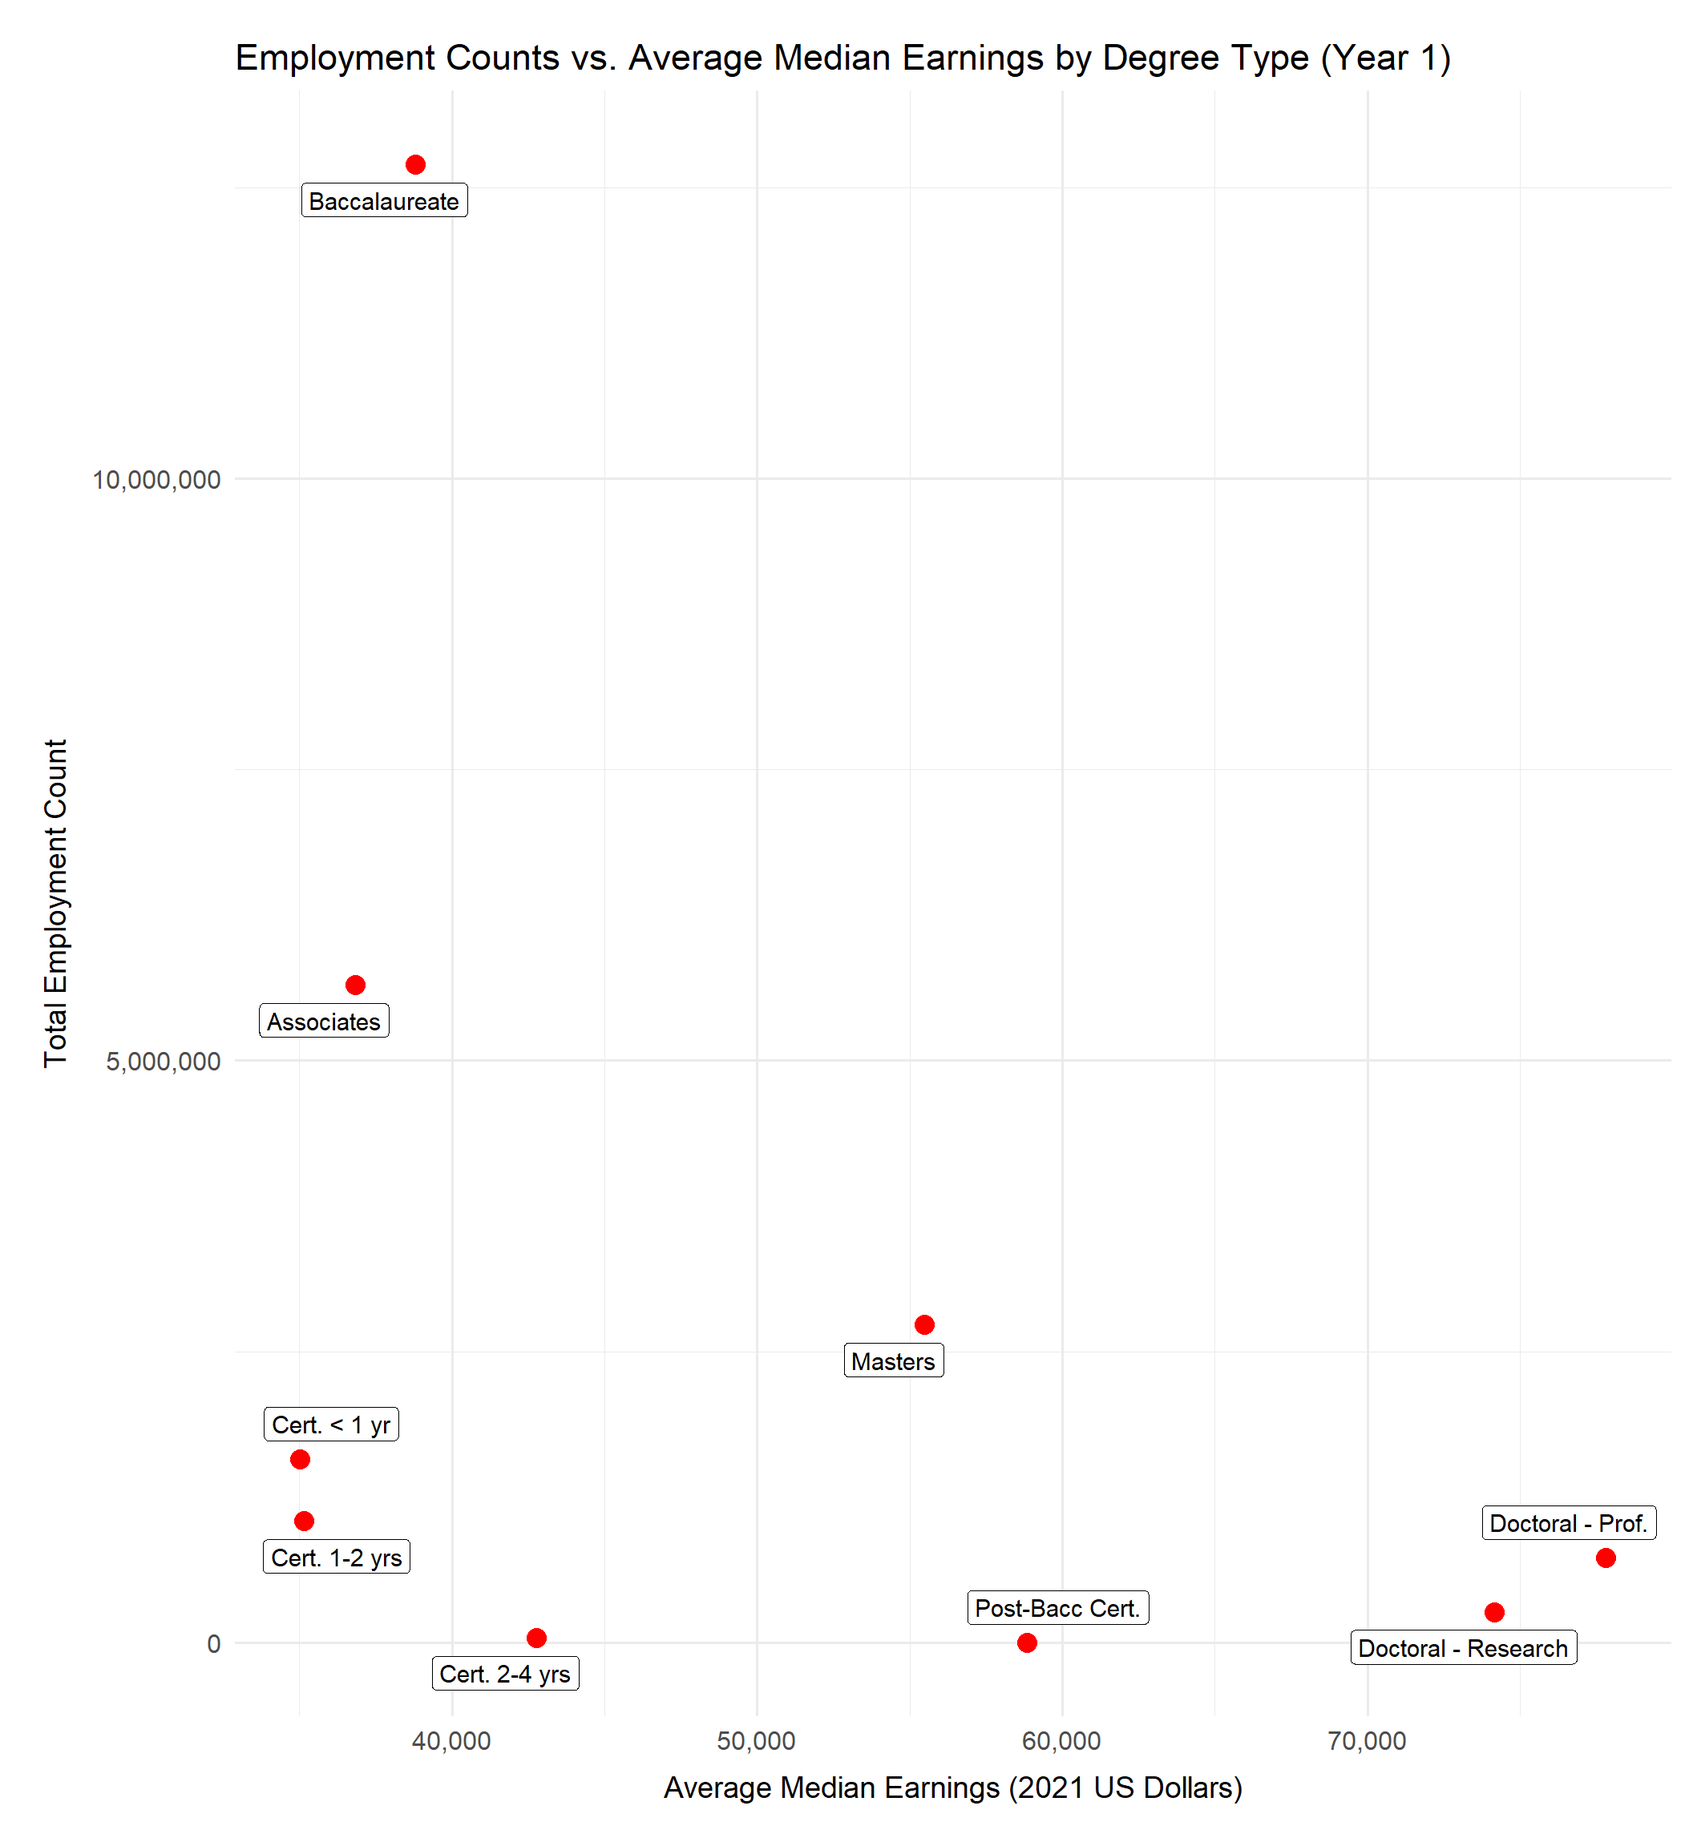
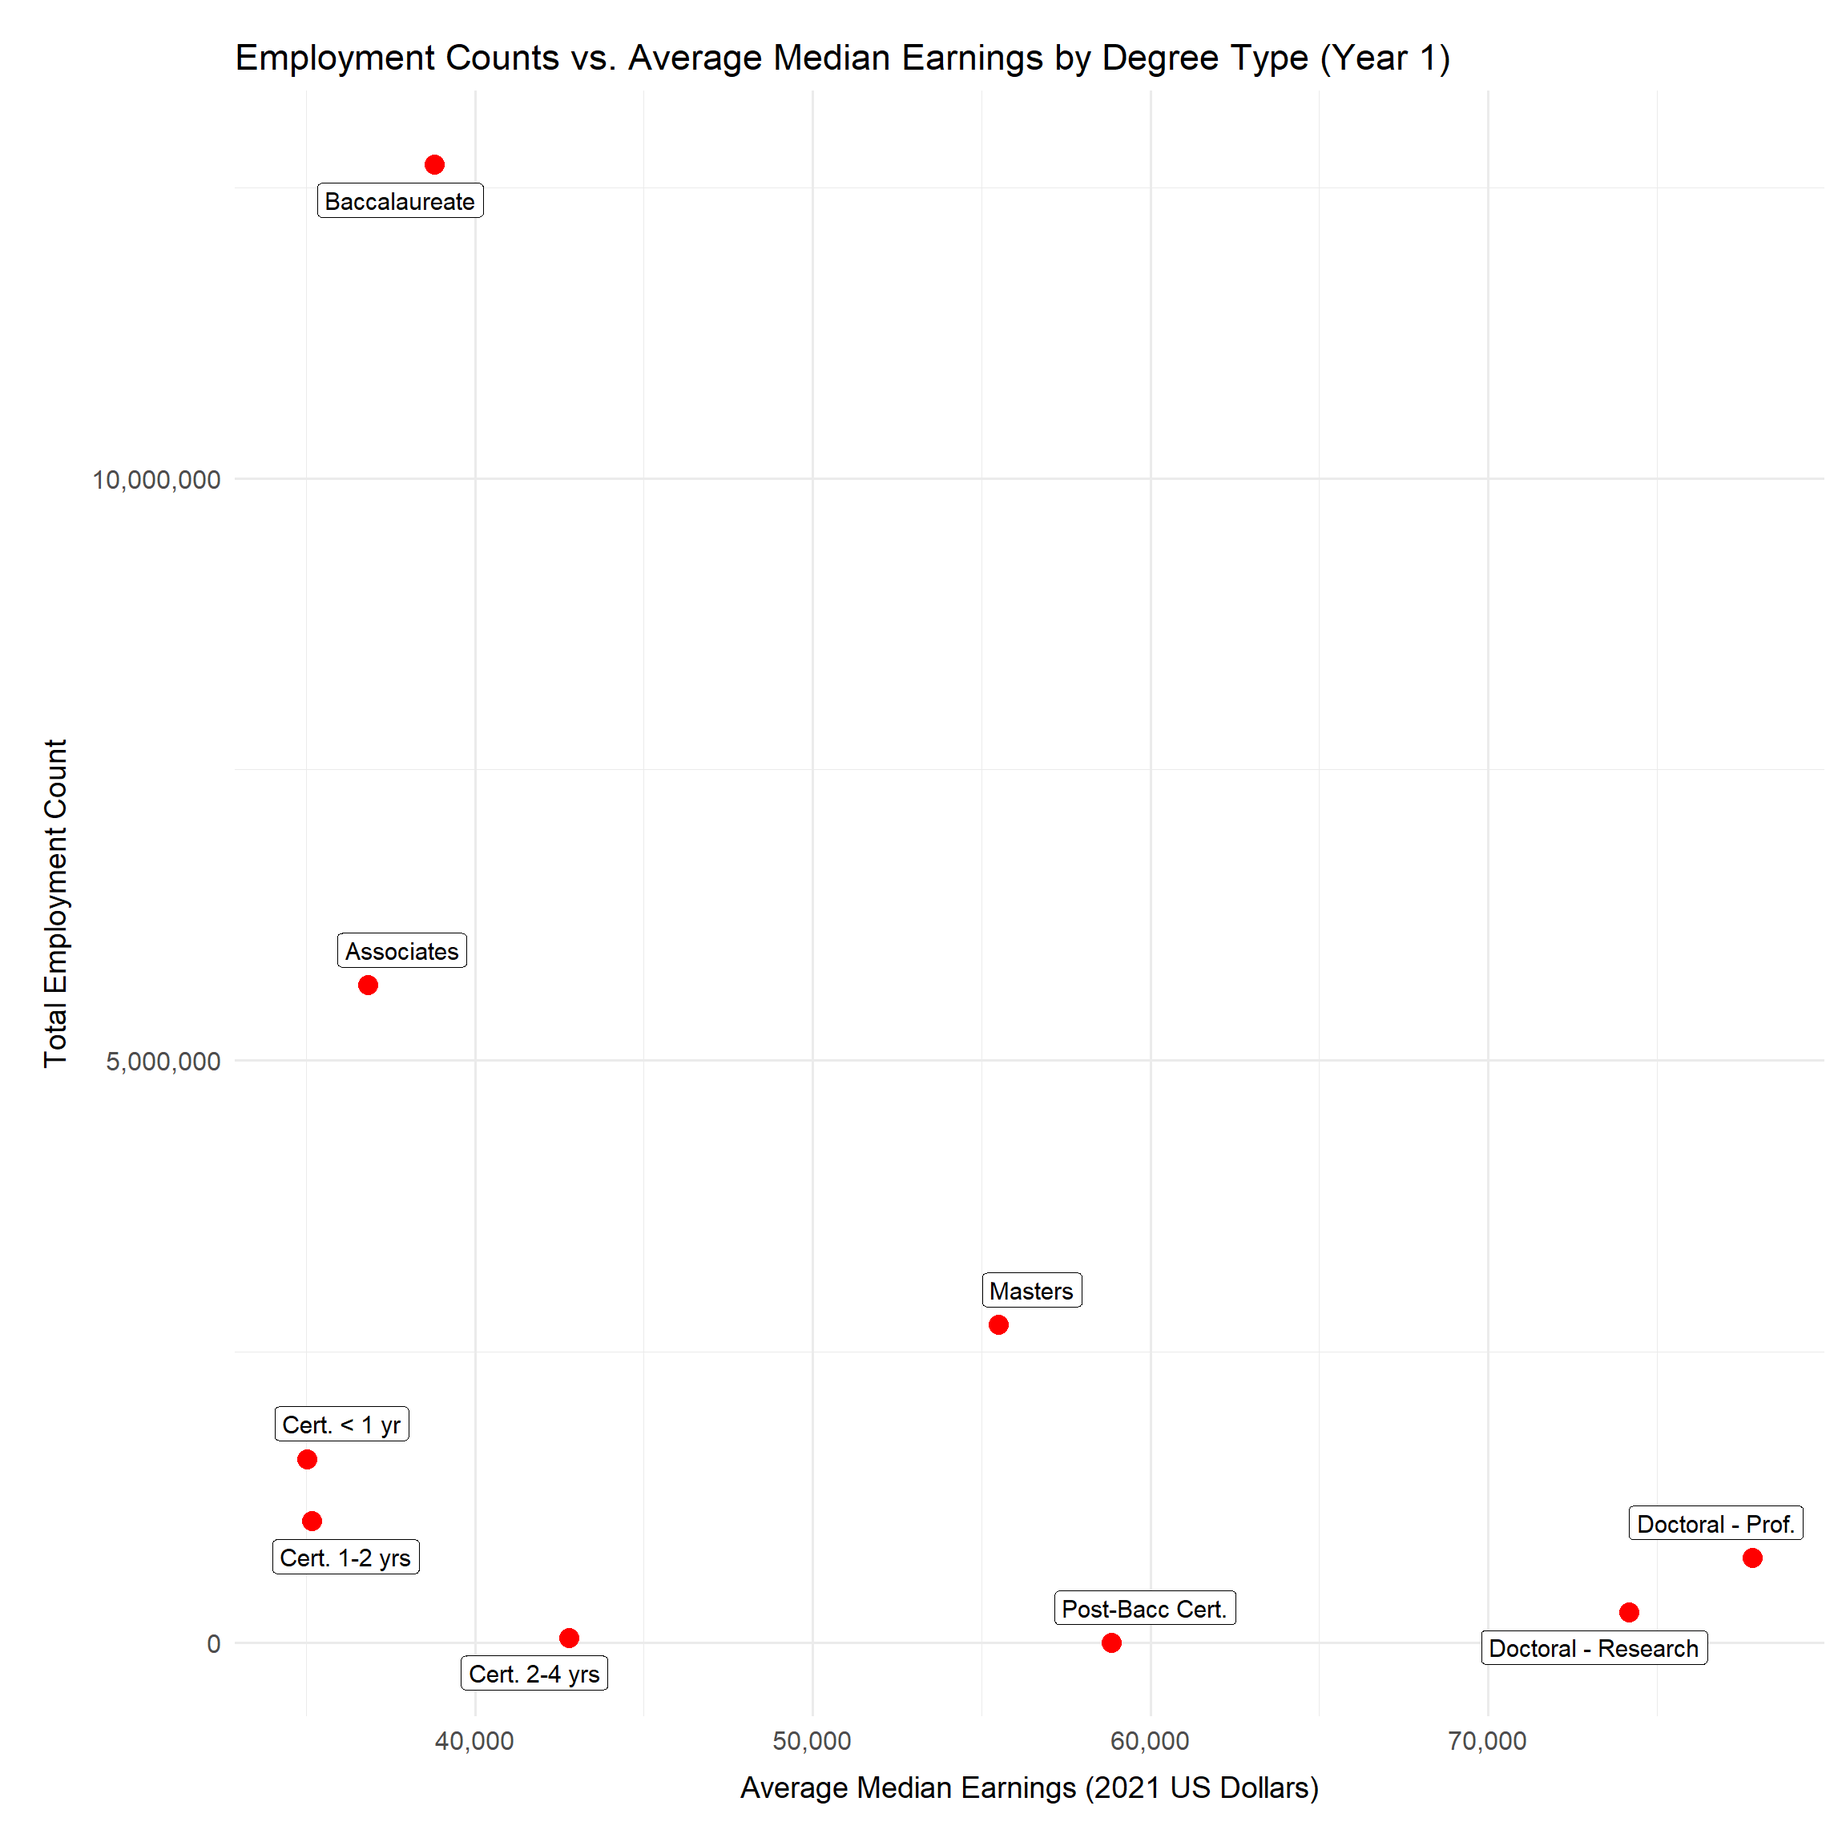
interactive viz update

diff --git a/docs/results.html b/docs/results.html
@@ -471,7 +471,7 @@ pre > code.sourceCode > span > a:first-child::before { text-decoration: underlin
 <div class="cell-output-display">
 <div>
 <figure class="figure">
-<p><img src="results_files/figure-html/unnamed-chunk-5-1.png" class="img-fluid figure-img" width="1056"></p>
+<p><img src="results_files/figure-html/unnamed-chunk-5-1.png" class="img-fluid figure-img" width="1152"></p>
 </figure>
 </div>
 </div>
@@ -604,8 +604,8 @@ pre > code.sourceCode > span > a:first-child::before { text-decoration: underlin
 </details>
 <div class="cell-output-display">
 <h3 class="anchored">Employability and Income Analysis for Top 20 Historically Popular Fields of Study (Normalized)</h3>
-<div class="parcoords html-widget html-fill-item" height="338px" id="htmlwidget-7165da429c98b8e19e36" style="width:100%;height:338px; position:relative; overflow-x:auto; overflow-y:hidden; max-width:100%;" width="100%"></div>
-<script type="application/json" data-for="htmlwidget-7165da429c98b8e19e36">{"x":{"data":{"names":["1","2","3","4","5","6","7","8","9","10","11","12","13","14","15","16","17","18","19","20"],"cipcode_label":["Liberal Arts and...","Business, Management,...","Health Professions and...","Education","Registered Nursing,...","Social Sciences","Engineering","Business Administration,...","Computer and Information...","Psychology","Biological and Biomedical...","Visual and Performing...","English Language and...","Communication,...","Teacher Education and...","Psychology, General","Homeland Security, Law...","Criminal Justice and...","History","Engineering/Engineering-Related..."],"employment_rate":[0.4629906945454404,0.6958745962147549,0.8064651257634059,0.7698158707387723,0.9262356533831412,0.5363432779739986,0.6438437676111757,0.6702369560967579,0.6585125654622707,0.5781929457239491,0.4699292150451641,0.4861447967107241,0.5236082138629008,0.6692646480534802,0.678128979969897,0.5562583648717013,0.6836039039865335,0.6666394563376258,0.4536620568914432,0.7175665701470505],"Total Graduates":[5143220,3712679,3251383,1817962,1001717,998025,984815,971910,910830,807170,721481,711646,685037,635750,630501,624636,617830,490010,458663,457938],"Employment Rate":[0.01974007376470323,0.5125392978394357,0.7465568781055686,0.6690043967635911,1,0.1749594596405006,0.4024382913721959,0.4582881921739347,0.433478531368661,0.2635163914298238,0.03442248630580581,0.06873583302246893,0.1480111404672741,0.4562307178450767,0.4749882869988001,0.2171012277069959,0.4865736232454321,0.4506756218021675,0,0.5584410877264141],"Y1 Earnings":[0.01809862964257375,0.4066642536646637,0.5643129376852191,0.4134029543613344,0.8552116701910418,0.2334857445090057,1,0.2551056737949831,0.5822145195568907,0.1560419091080213,0.1497548778582429,0.03610942572642142,0.09637144115906822,0.1631039300988223,0.09735421187350939,0,0.2232327329187821,0.1312471116889456,0.07545872923471657,0.5152092506551825],"Y5 Earnings":[0.005469245966011719,0.3195569046849083,0.4294004317289022,0.2493876713771608,0.5934663897325956,0.2261971918581036,1,0.2129219081257835,0.5872357174170096,0.1724959213959256,0.2816319666405097,0,0.09417806400071194,0.1624534284310129,0.07779754703921213,0.02656137100832139,0.178183382324559,0.1028289979382902,0.1084565831622277,0.4502319277941538],"Y10 Earnings":[0.0002401867245302103,0.2745757262907917,0.3367949059917025,0.1578351476527014,0.4123311901873856,0.2256885375326635,1,0.1843314963232353,0.5438742617791055,0.1749151150599567,0.4222665784285612,0,0.08558157664822523,0.1624176803958587,0.03447868306437425,0.03925126056806723,0.1353873761495713,0.07703126081347496,0.1194463514894464,0.3768350192235536]},"options":{"rownames":false,"color":{"colorBy":"cipcode_label","colorScale":"scaleOrdinal","colorScheme":"schemeCategory10"},"brushMode":"1D-axes","brushPredicate":"AND","reorderable":false,"margin":{"top":50,"bottom":50,"left":100,"right":50},"alpha":0.5,"mode":false,"bundlingStrength":0.5,"smoothness":0},"autoresize":false,"tasks":null},"evals":[],"jsHooks":[]}</script>
+<div class="parcoords html-widget html-fill-item" height="338px" id="htmlwidget-43e3f3a403c71a71b5d9" style="width:100%;height:338px; position:relative; overflow-x:auto; overflow-y:hidden; max-width:100%;" width="100%"></div>
+<script type="application/json" data-for="htmlwidget-43e3f3a403c71a71b5d9">{"x":{"data":{"names":["1","2","3","4","5","6","7","8","9","10","11","12","13","14","15","16","17","18","19","20"],"cipcode_label":["Liberal Arts and...","Business, Management,...","Health Professions and...","Education","Registered Nursing,...","Social Sciences","Engineering","Business Administration,...","Computer and Information...","Psychology","Biological and Biomedical...","Visual and Performing...","English Language and...","Communication,...","Teacher Education and...","Psychology, General","Homeland Security, Law...","Criminal Justice and...","History","Engineering/Engineering-Related..."],"employment_rate":[0.4629906945454404,0.6958745962147549,0.8064651257634059,0.7698158707387723,0.9262356533831412,0.5363432779739986,0.6438437676111757,0.6702369560967579,0.6585125654622707,0.5781929457239491,0.4699292150451641,0.4861447967107241,0.5236082138629008,0.6692646480534802,0.678128979969897,0.5562583648717013,0.6836039039865335,0.6666394563376258,0.4536620568914432,0.7175665701470505],"Total Graduates":[5143220,3712679,3251383,1817962,1001717,998025,984815,971910,910830,807170,721481,711646,685037,635750,630501,624636,617830,490010,458663,457938],"Employment Rate":[0.01974007376470323,0.5125392978394357,0.7465568781055686,0.6690043967635911,1,0.1749594596405006,0.4024382913721959,0.4582881921739347,0.433478531368661,0.2635163914298238,0.03442248630580581,0.06873583302246893,0.1480111404672741,0.4562307178450767,0.4749882869988001,0.2171012277069959,0.4865736232454321,0.4506756218021675,0,0.5584410877264141],"Y1 Earnings":[0.01809862964257375,0.4066642536646637,0.5643129376852191,0.4134029543613344,0.8552116701910418,0.2334857445090057,1,0.2551056737949831,0.5822145195568907,0.1560419091080213,0.1497548778582429,0.03610942572642142,0.09637144115906822,0.1631039300988223,0.09735421187350939,0,0.2232327329187821,0.1312471116889456,0.07545872923471657,0.5152092506551825],"Y5 Earnings":[0.005469245966011719,0.3195569046849083,0.4294004317289022,0.2493876713771608,0.5934663897325956,0.2261971918581036,1,0.2129219081257835,0.5872357174170096,0.1724959213959256,0.2816319666405097,0,0.09417806400071194,0.1624534284310129,0.07779754703921213,0.02656137100832139,0.178183382324559,0.1028289979382902,0.1084565831622277,0.4502319277941538],"Y10 Earnings":[0.0002401867245302103,0.2745757262907917,0.3367949059917025,0.1578351476527014,0.4123311901873856,0.2256885375326635,1,0.1843314963232353,0.5438742617791055,0.1749151150599567,0.4222665784285612,0,0.08558157664822523,0.1624176803958587,0.03447868306437425,0.03925126056806723,0.1353873761495713,0.07703126081347496,0.1194463514894464,0.3768350192235536]},"options":{"rownames":false,"color":{"colorBy":"cipcode_label","colorScale":"scaleOrdinal","colorScheme":"schemeCategory10"},"brushMode":"1D-axes","brushPredicate":"AND","reorderable":false,"margin":{"top":50,"bottom":50,"left":100,"right":50},"alpha":0.5,"mode":false,"bundlingStrength":0.5,"smoothness":0},"autoresize":false,"tasks":null},"evals":[],"jsHooks":[]}</script>
 </div>
 <details class="code-fold">
 <summary>Code</summary>

diff --git a/docs/d3graph.html b/docs/d3graph.html
@@ -169,6 +169,8 @@ ul.task-list li input[type="checkbox"] {
 </header>
 
 
+<p></p>
+<p>Now that we’ve examined how factors like location, institution, field of study, degree level, and time influence employment outcomes, another key question has emerged - what are the most popular fields of study over time? Understanding these trends can provide valuable context for how student interests and societal demands have shifted. This can offer insights into how higher education continues to adapt to an evolving job market and world.</p>
 <div style="text-align: center; font-size: 24px; font-weight: bold;">
 <pre><code>Trends in Popular Fields of Study: Graduation Counts Over Time</code></pre>
 </div>
@@ -189,13 +191,16 @@ ul.task-list li input[type="checkbox"] {
     fill: gray;
     text-anchor: end;
   }
-  button#pause {
-  display: block;
-  margin: 10px auto; 
+   #button-container {
+    display: flex; 
+    justify-content: center; 
+    gap: 10px;
+  }
+button {
   padding: 10px 20px;
   font-size: 16px;
   border-radius: 5px;
-  position: relative; 
+  cursor: pointer;
 }
 #plot-container {
   text-align: center; 
@@ -207,14 +212,17 @@ ul.task-list li input[type="checkbox"] {
 <div id="plot">
 
 </div>
-<button id="pause" type="button">
-Pause
-</button>
+<div class="button-container">
+<button id="left" type="button">⬅</button>
+<button id="pause" type="button">Pause</button>
+<button id="right" type="button">➡</button>
+</div>
 </div>
 <script src="https://cdn.jsdelivr.net/npm/d3@7"></script>
 <script src="scripts/myscript.js"></script>
-<p>This interactive graph shows trends in the most popular fields of study based on graduation counts over time. The pause button can be clicked to pause the visualization at any displayed year.</p>
-<p>These trends reflect societal priorities and workforce demands during different periods. For example, Healthcare fields show consistency, likely due to a steady demand for medical professionals, as seen in our previous analyses as well, since healthcare is always needed. Liberal Arts/Sciences show a rise, possibly because of their broad appeal and flexibility for students who are undecided about a specific career path. The prominence of Business-related fields highlights their alignment with job market demands and strong career outcomes, also how we’ve seen in our previous analyses. Interestingly, technology-related fields like Computer and Information Sciences show significant variation, frequently entering and leaving the top 10. This could be because the positive perceptions of the technology industry did not have its massive increase until the mid 2010s. If our data extended into more recent years, we likely could see similar tech-related fields ranking much higher, such as fields like Data Science, since many universities have started those programs recently.</p>
+<p></p>
+<p>This interactive graph shows trends in the most popular fields of study based on graduation counts over time at a national level. The pause button can be clicked to pause the visualization at any displayed year. The left and right arrows will move you backward and forwards through the animation respectively. Please note that you may have to maximize your browser window to view the entire visualization.</p>
+<p>These trends reflect societal priorities and workforce demands during different periods. For example, Healthcare fields show consistency, likely due to a steady demand for medical professionals, as seen in our previous analyses as well, since healthcare is always needed. Liberal Arts/Sciences show a rise, possibly because of their broad appeal and flexibility for students who are undecided about a specific career path. The prominence of Business-related fields highlights their alignment with job market demands and strong career outcomes, also how we’ve seen in our previous analyses. Interestingly, technology-related fields like Computer and Information Sciences show significant variation, frequently entering and leaving the top 20. This could be because the positive perceptions of the technology industry did not have its massive increase until the mid 2010s. If our data extended into more recent years, we likely could see similar tech-related fields ranking much higher, such as fields like Data Science, since many universities have started those programs recently.</p>
 
 
 

diff --git a/docs/scripts/myscript.js b/docs/scripts/myscript.js
@@ -190,7 +190,8 @@ const df = [
 ];
     const x_scale = d3.scaleLinear().range([0, chart_width * 0.75]) //text issue - scale it
     const y_scale = d3.scaleBand().range([0, chart_height]).padding(0.1)
-    const color_scale = d3.scaleOrdinal(d3.schemeCategory10)
+    const color_scale = d3.scaleOrdinal().domain(df.map(row => row.cipcode_label)).range(df.map((_, i) => d3.hsl((i * 30) % 360, 0.5, 0.7).toString())); // modify hue saturation brightness
+    //d3.scaleOrdinal(d3.schemeCategory10)
 
     const year_list = [...new Set(df.map(row => row.grad_cohort))].sort()
     console.log("years:", year_list)
@@ -268,6 +269,22 @@ console.log(document.getElementById("pause"))
             button.textContent = "Play";
             clearTimeout(animation_timeout); 
         }
+    });
+    
+    document.getElementById("left").addEventListener("click", () => {
+        clearTimeout(animation_timeout);
+        animation_running = false;
+        document.getElementById("pause").textContent = "Play";
+        current_year_idx = (current_year_idx - 1 + year_list.length) % year_list.length;
+        draw_chart(current_year_idx);
+    });
+
+    document.getElementById("right").addEventListener("click", () => {
+        clearTimeout(animation_timeout);
+        animation_running = false;
+        document.getElementById("pause").textContent = "Play";
+        current_year_idx = (current_year_idx + 1) % year_list.length;
+        draw_chart(current_year_idx);
     });
 
     run_animation();

diff --git a/scripts/myscript.js b/scripts/myscript.js
@@ -190,7 +190,8 @@ const df = [
 ];
     const x_scale = d3.scaleLinear().range([0, chart_width * 0.75]) //text issue - scale it
     const y_scale = d3.scaleBand().range([0, chart_height]).padding(0.1)
-    const color_scale = d3.scaleOrdinal(d3.schemeCategory10)
+    const color_scale = d3.scaleOrdinal().domain(df.map(row => row.cipcode_label)).range(df.map((_, i) => d3.hsl((i * 30) % 360, 0.5, 0.7).toString())); // modify hue saturation brightness
+    //d3.scaleOrdinal(d3.schemeCategory10)
 
     const year_list = [...new Set(df.map(row => row.grad_cohort))].sort()
     console.log("years:", year_list)
@@ -268,6 +269,22 @@ console.log(document.getElementById("pause"))
             button.textContent = "Play";
             clearTimeout(animation_timeout); 
         }
+    });
+    
+    document.getElementById("left").addEventListener("click", () => {
+        clearTimeout(animation_timeout);
+        animation_running = false;
+        document.getElementById("pause").textContent = "Play";
+        current_year_idx = (current_year_idx - 1 + year_list.length) % year_list.length;
+        draw_chart(current_year_idx);
+    });
+
+    document.getElementById("right").addEventListener("click", () => {
+        clearTimeout(animation_timeout);
+        animation_running = false;
+        document.getElementById("pause").textContent = "Play";
+        current_year_idx = (current_year_idx + 1) % year_list.length;
+        draw_chart(current_year_idx);
     });
 
     run_animation();
